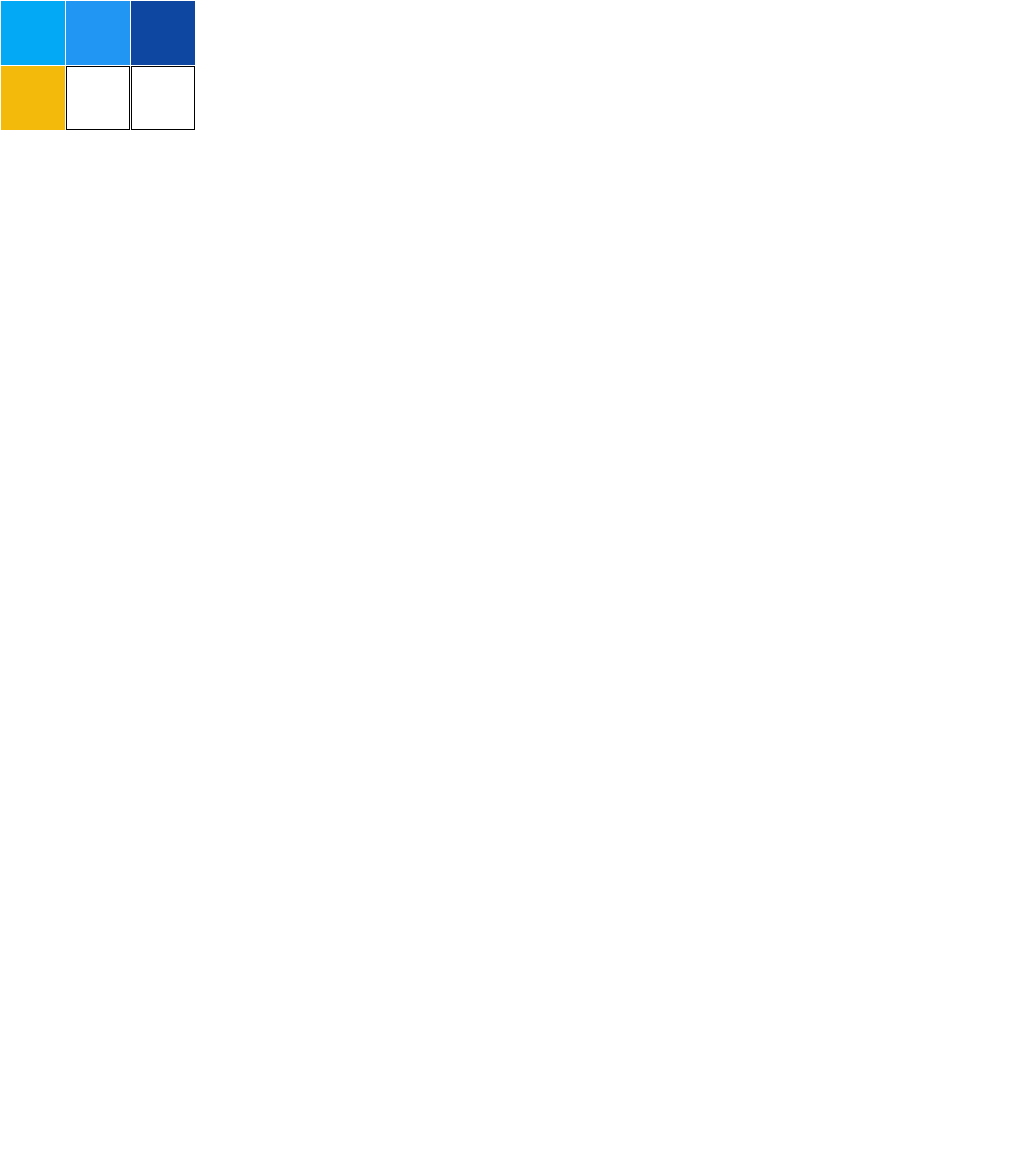
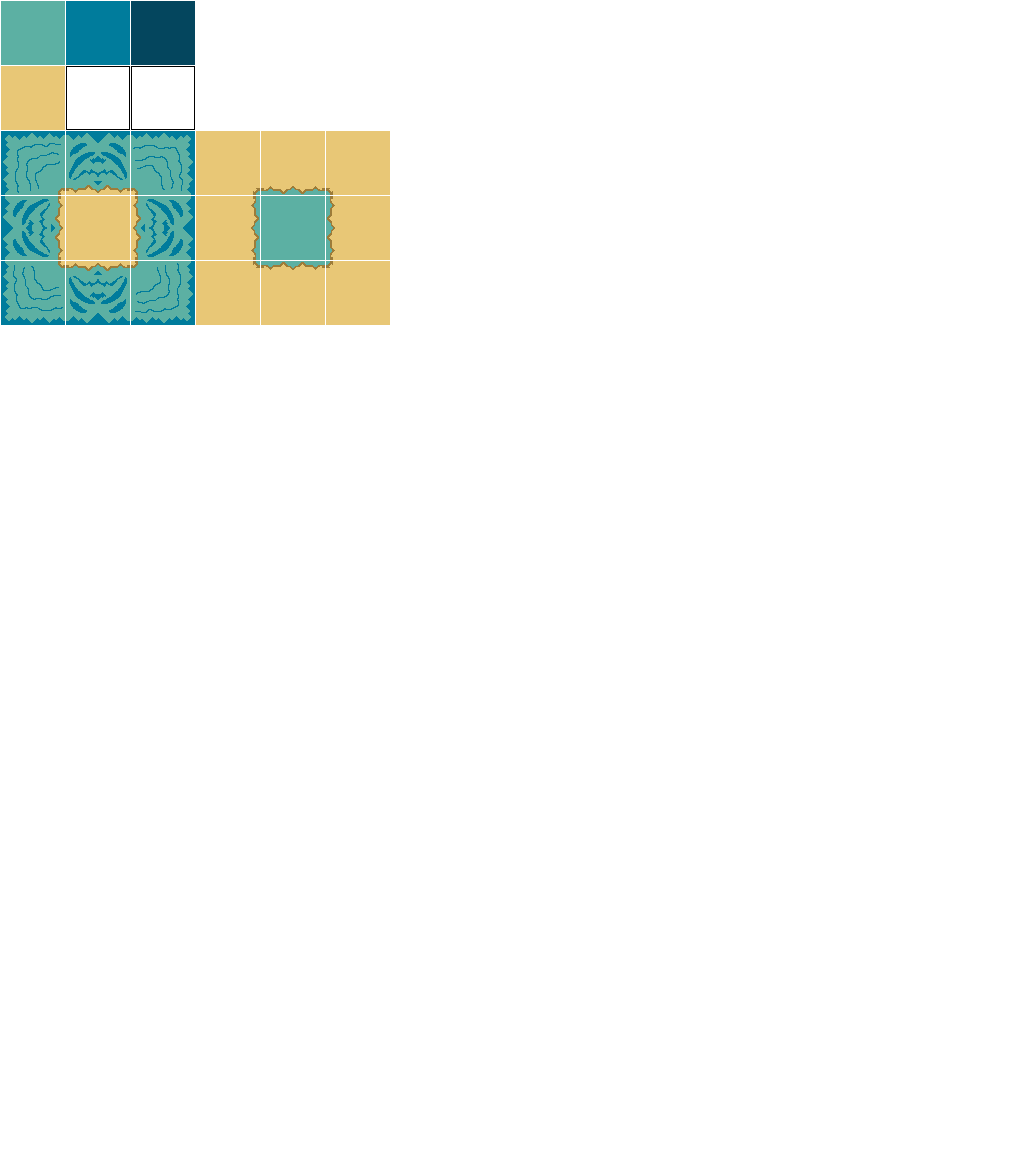
(feat) Пробуем тайлы сливающиеся

Changed region(s): [[0.0, 0.0, 0.4039, 0.2793]]

diff --git a/src/app/features/game-global-map/services/enums/global-map-terrains.enum.ts b/src/app/features/game-global-map/services/enums/global-map-terrains.enum.ts
@@ -3,4 +3,24 @@ export enum GlobalMapTerrains {
   INTERMEDIATE_WATER = 'Intermediate Water',
   DEEP_WATER = 'Deep Water',
   FLAT_LAND = 'Flat Land',
+
+  // SHALLOW_WATER с прилегающим FLAT_LAND по сторонам света
+  SHALLOW_WATER_FLAT_LAND_N = 'Shallow Water with Flat Land (N)',
+  SHALLOW_WATER_FLAT_LAND_NE = 'Shallow Water with Flat Land (NE)',
+  SHALLOW_WATER_FLAT_LAND_E = 'Shallow Water with Flat Land (E)',
+  SHALLOW_WATER_FLAT_LAND_SE = 'Shallow Water with Flat Land (SE)',
+  SHALLOW_WATER_FLAT_LAND_S = 'Shallow Water with Flat Land (S)',
+  SHALLOW_WATER_FLAT_LAND_SW = 'Shallow Water with Flat Land (SW)',
+  SHALLOW_WATER_FLAT_LAND_W = 'Shallow Water with Flat Land (W)',
+  SHALLOW_WATER_FLAT_LAND_NW = 'Shallow Water with Flat Land (NW)',
+
+  // FLAT_LAND с прилегающим SHALLOW_WATER по сторонам света
+  FLAT_LAND_SHALLOW_WATER_N = 'Flat Land with Shallow Water (N)',
+  FLAT_LAND_SHALLOW_WATER_NE = 'Flat Land with Shallow Water (NE)',
+  FLAT_LAND_SHALLOW_WATER_E = 'Flat Land with Shallow Water (E)',
+  FLAT_LAND_SHALLOW_WATER_SE = 'Flat Land with Shallow Water (SE)',
+  FLAT_LAND_SHALLOW_WATER_S = 'Flat Land with Shallow Water (S)',
+  FLAT_LAND_SHALLOW_WATER_SW = 'Flat Land with Shallow Water (SW)',
+  FLAT_LAND_SHALLOW_WATER_W = 'Flat Land with Shallow Water (W)',
+  FLAT_LAND_SHALLOW_WATER_NW = 'Flat Land with Shallow Water (NW)',
 }

diff --git a/src/app/features/game-global-map/services/interfaces/global-map-tile.interface.ts b/src/app/features/game-global-map/services/interfaces/global-map-tile.interface.ts
@@ -2,11 +2,23 @@ import { GlobalMapTerrains } from '../enums/global-map-terrains.enum';
 import { Point } from '../../../../common/models/point.class';
 
 export class GlobalMapTile {
-  public point: Point;
-  public terrain: GlobalMapTerrains;
+  private readonly _point: Point;
+  private _terrain: GlobalMapTerrains;
 
   constructor(point: Point, terrain: GlobalMapTerrains) {
-    this.point = point;
-    this.terrain = terrain;
+    this._point = point;
+    this._terrain = terrain;
+  }
+
+  public get point() {
+    return this._point;
+  }
+
+  public set terrain(terrain: GlobalMapTerrains) {
+    this._terrain = terrain;
+  }
+
+  public get terrain() {
+    return this._terrain;
   }
 }

diff --git a/src/app/features/game-global-map/services/game-global-map-generator.service.ts b/src/app/features/game-global-map/services/game-global-map-generator.service.ts
@@ -23,6 +23,7 @@ export class GameGlobalMapGeneratorService {
 
     this.generateOcean(globalMap);
     this.generateContinents(globalMap);
+    this.indexingTiles(globalMap);
 
     return globalMap;
   }
@@ -141,8 +142,12 @@ export class GameGlobalMapGeneratorService {
       }
     }
 
-    console.log('Generated continents = ', map.continents.length);
-
     this._mapGenStage.set(GlobalMapGenerationStages.CONTINENTS_GENERATED);
+  }
+
+  private indexingTiles(map: GlobalMap): void {
+    this._mapGenStage.set(GlobalMapGenerationStages.TILES_INDEXING);
+
+    this._mapGenStage.set(GlobalMapGenerationStages.TILES_INDEXED);
   }
 }

diff --git a/src/app/features/game-global-map/services/enums/global-map-generation-stages.enum.ts b/src/app/features/game-global-map/services/enums/global-map-generation-stages.enum.ts
@@ -4,4 +4,6 @@ export enum GlobalMapGenerationStages {
   OCEAN_GENERATED,
   CONTINENTS_GENERATION,
   CONTINENTS_GENERATED,
+  TILES_INDEXING,
+  TILES_INDEXED,
 }
